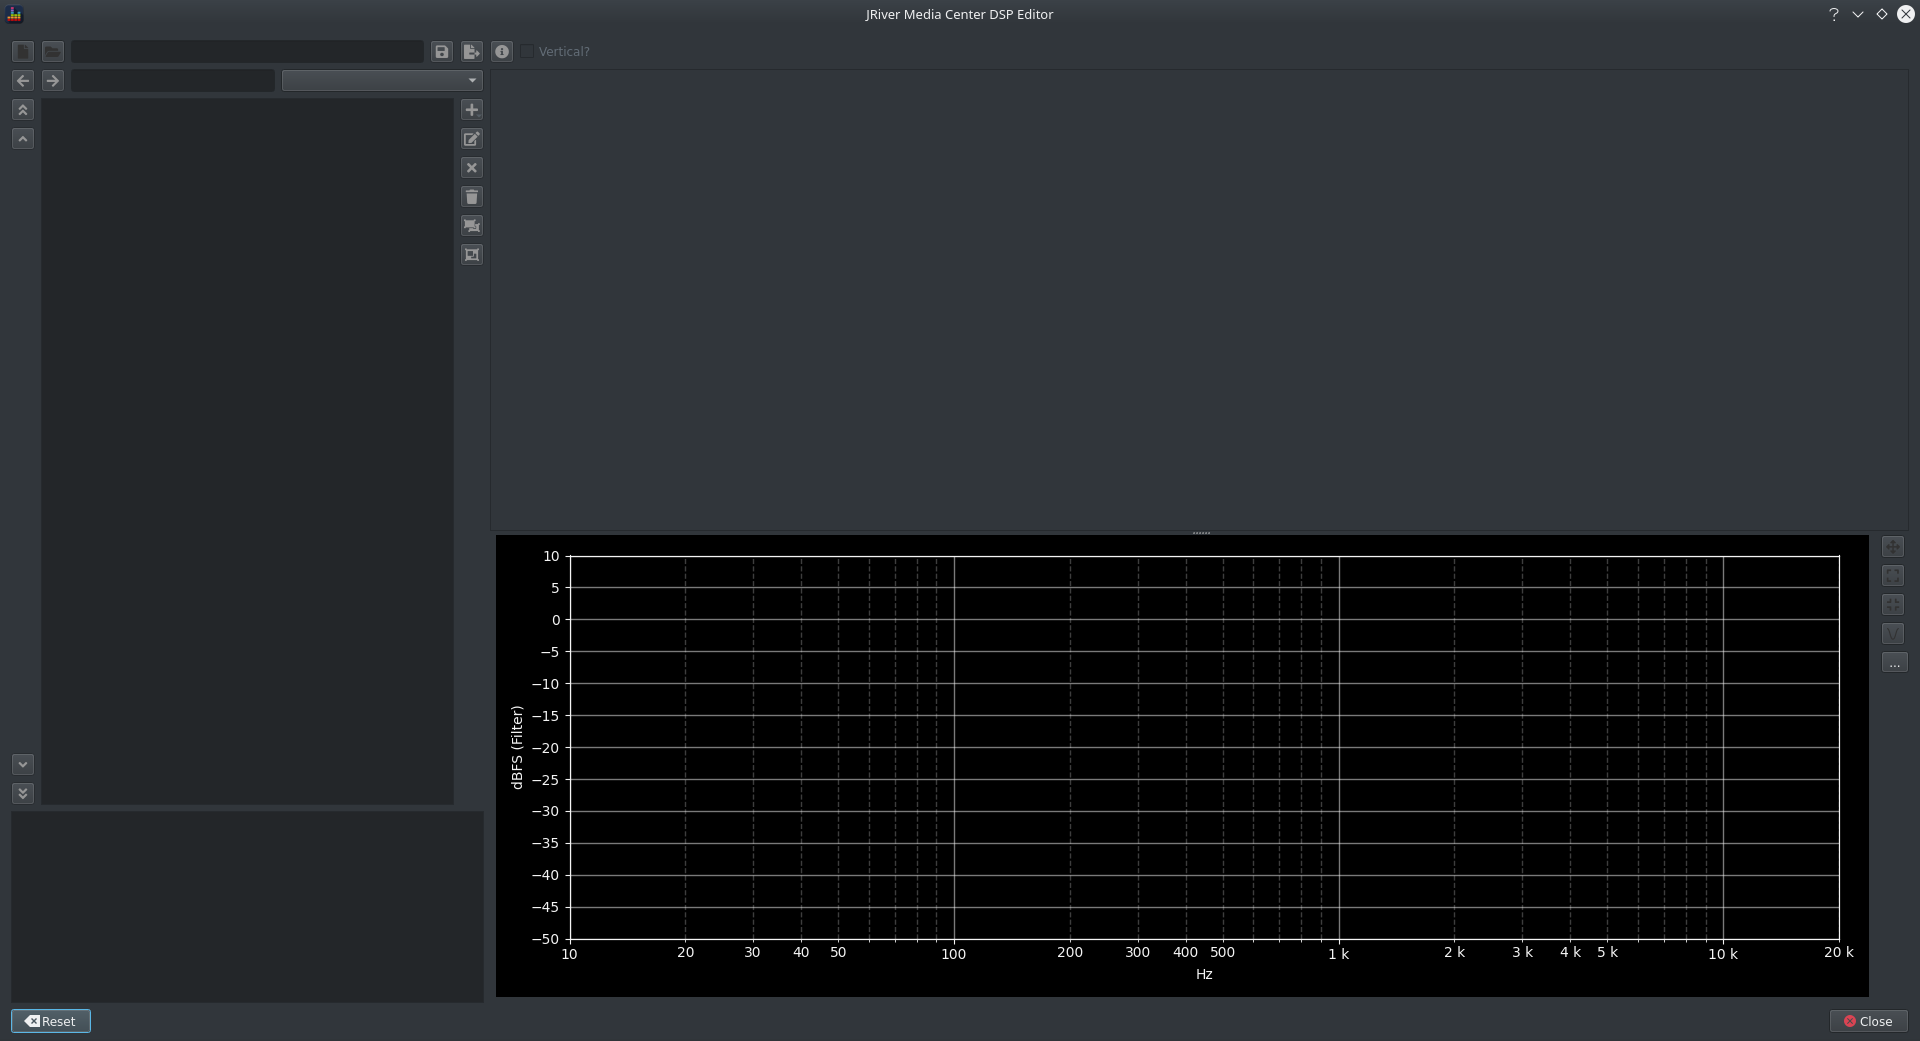
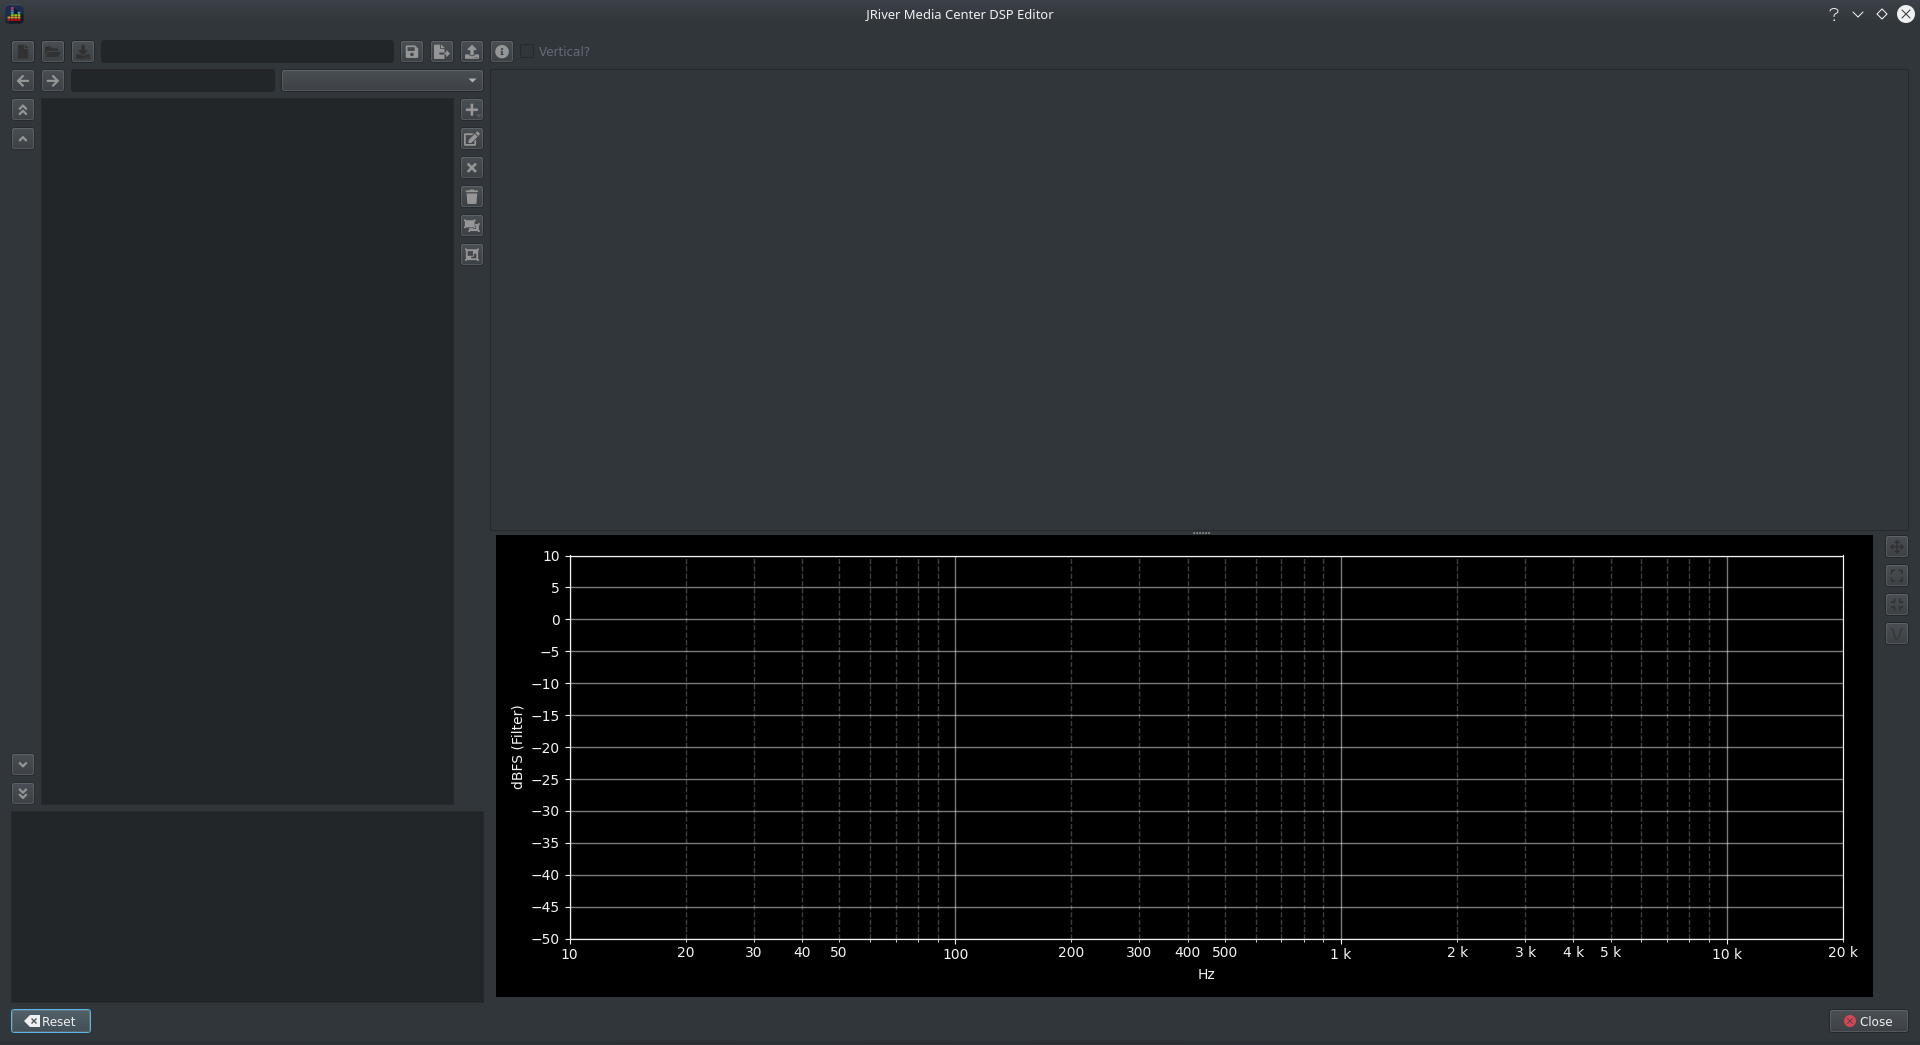
Update docs and handle mcws changes in 28.0.14

diff --git a/src/main/python/model/jriver/mcws.py b/src/main/python/model/jriver/mcws.py
@@ -26,7 +26,7 @@ class MediaServer:
     def authenticate(self) -> bool:
         self.__token = None
         url = f"{self.__base_url}/Authenticate"
-        r = requests.get(url, auth=self.__auth)
+        r = requests.get(url, auth=self.__auth, timeout=(1, 5))
         if r.status_code == 200:
             response = ET.fromstring(r.content)
             if response:
@@ -46,7 +46,7 @@ class MediaServer:
 
     def get_zones(self) -> Dict[str, str]:
         self.__auth_if_required()
-        r = requests.get(f"{self.__base_url}/Playback/Zones", params={'Token': self.__token})
+        r = requests.get(f"{self.__base_url}/Playback/Zones", params={'Token': self.__token}, timeout=(1, 5))
         if r.status_code == 200:
             response = ET.fromstring(r.content)
             if response:
@@ -77,30 +77,49 @@ class MediaServer:
 
     def get_dsp(self, zone_id: str) -> Optional[str]:
         self.__auth_if_required()
-        r = requests.get(f"{self.__base_url}/Playback/SaveDSPPreset", params={'Token': self.__token, 'Zone': zone_id, 'ZoneType': 'ID'})
+        r = requests.get(f"{self.__base_url}/Playback/SaveDSPPreset",
+                         params={'Token': self.__token, 'Zone': zone_id, 'ZoneType': 'ID'},
+                         timeout=(1, 5))
         if r.status_code == 200:
-            response = ET.fromstring(r.content)
+            response = ET.fromstring(r.text)
             if response:
-                r_status = response.attrib.get('Status', None)
-                if r_status == 'OK':
-                    for child in response:
-                        if child.tag == 'Item' and 'Name' in child.attrib and child.attrib['Name'] == 'Preset':
-                            return child.text
+                if response.tag == 'DSP':
+                    return r.text
+                elif response.tag == 'Response':
+                    r_status = response.attrib.get('Status', None)
+                    if r_status == 'OK':
+                        for child in response:
+                            if child.tag == 'Item' and 'Name' in child.attrib and child.attrib['Name'] == 'Preset':
+                                return child.text
         raise MCWSError('No DSP loaded',  r.url, r.status_code, r.text)
 
-    def set_dsp(self, zone_name: str, dsp: str) -> bool:
+    def set_dsp(self, zone_id: str, dsp: str) -> bool:
         self.__auth_if_required()
         dsp = dsp.replace('\n', '\r\n')
         if not dsp.endswith('\r\n'):
             dsp = dsp + '\r\n'
         r = requests.post(f"{self.__base_url}/Playback/LoadDSPPreset",
-                          params={'Token': self.__token, 'Zone': zone_name, 'ZoneType': 'Name'},
-                          files={'Name': (None, dsp)})
+                          params={'Token': self.__token, 'Zone': zone_id, 'ZoneType': 'ID'},
+                          files={'Name': (None, dsp)},
+                          timeout=(1, 5))
         if r.status_code == 200:
-            logger.debug(f"LoadDSPPreset/{zone_name} success")
-            return True
+            logger.debug(f"LoadDSPPreset/{zone_id} success")
+            loaded_dsp = self.get_dsp(zone_id)
+            if loaded_dsp == dsp:
+                return True
+            else:
+                raise DSPMismatchError(zone_id, dsp, loaded_dsp)
         else:
             raise MCWSError('DSP not set',  r.url, r.status_code, r.text)
+
+
+class DSPMismatchError(Exception):
+
+    def __init__(self, zone_id: str, expected: str, actual):
+        super().__init__(f"Mismatch in DSP loaded to {zone_id}")
+        self.zone_id = zone_id
+        self.expected = expected
+        self.actual = actual
 
 
 class MCWSError(Exception):

diff --git a/src/main/python/model/jriver/ui.py b/src/main/python/model/jriver/ui.py
@@ -28,7 +28,7 @@ from model.jriver.dsp import JRiverDSP
 from model.jriver.filter import Divider, GEQFilter, CompoundRoutingFilter, CustomPassFilter, GainQFilter, Gain, Pass, \
     LinkwitzTransform, Polarity, Mix, Delay, Filter, create_peq, MixType, ChannelFilter, convert_filter_to_mc_dsp, \
     SingleFilter, XOFilter, HighPass, LowPass, SimulationFailed
-from model.jriver.mcws import MediaServer, MCWSError
+from model.jriver.mcws import MediaServer, MCWSError, DSPMismatchError
 from model.jriver.render import render_dot
 from model.jriver.routing import Matrix, LFE_ADJUST_KEY, EDITORS_KEY, EDITOR_NAME_KEY, \
     UNDERLYING_KEY, WAYS_KEY, SYM_KEY, LFE_IN_KEY, ROUTING_KEY, calculate_compound_routing_filter
@@ -2330,9 +2330,9 @@ class MCWSDialog(QDialog, Ui_loadDspFromZoneDialog):
             self.__media_server = None
 
     def __add_media_server(self, ip, auth):
-        item = QListWidgetItem(f"{ip} [{auth[0]}]")
         if len(auth) == 3:
             auth = ((auth[0], auth[1]), auth[2])
+        item = QListWidgetItem(f"{ip} [{auth[0][0]}]")
         item.setData(self.MCWS_ROLE, MediaServer(ip, *auth))
         self.savedConnections.addItem(item)
 
@@ -2363,15 +2363,19 @@ class MCWSDialog(QDialog, Ui_loadDspFromZoneDialog):
                         self.resultText.setPlainText(f"{e.url} - {e.status_code}\n\n{e.msg}\n\n{e.resp}")
                         self.upload.setIcon(qta.icon('fa5s.download', color='red'))
             else:
-                zone_name = self.zones.selectedItems()[0].text()
-                try:
-                    result = self.__media_server.set_dsp(zone_name, self.__txt)
-                    if result:
-                        self.resultText.setPlainText(f"Uploaded dsp to {zone_name}")
-                        self.upload.setIcon(qta.icon('fa5s.upload', color='green'))
-                    else:
-                        self.resultText.setPlainText(f"Failed to upload dsp to {zone_name}")
+                if self.zones.selectionModel().hasSelection():
+                    zone = self.zones.selectedItems()[0]
+                    try:
+                        result = self.__media_server.set_dsp(zone.data(self.MCWS_ROLE), self.__txt)
+                        if result:
+                            self.resultText.setPlainText(f"Uploaded dsp to {zone.text()}")
+                            self.upload.setIcon(qta.icon('fa5s.upload', color='green'))
+                        else:
+                            self.resultText.setPlainText(f"Failed to upload dsp to {zone.text()}")
+                            self.upload.setIcon(qta.icon('fa5s.upload', color='red'))
+                    except DSPMismatchError as e:
+                        self.resultText.setPlainText(f"{e}\n\n{e.expected}\n\n{e.actual}")
                         self.upload.setIcon(qta.icon('fa5s.upload', color='red'))
-                except MCWSError as e:
-                    self.resultText.setPlainText(f"{e.url} - {e.status_code}\n\n{e.msg}\n\n{e.resp}")
-                    self.upload.setIcon(qta.icon('fa5s.upload', color='red'))
+                    except MCWSError as e:
+                        self.resultText.setPlainText(f"{e.url} - {e.status_code}\n\n{e.msg}\n\n{e.resp}")
+                        self.upload.setIcon(qta.icon('fa5s.upload', color='red'))

diff --git a/docs/ui/manage_mc.md b/docs/ui/manage_mc.md
@@ -18,10 +18,12 @@ This is launched via `Tools > Manage JRiver MC Filters` or the `CTRL+J` keyboard
 
 ![MCDSP](../img/jriver_dsp_editor.png)
 
+!!! info
+Use the button tooltips to understand what they do.
+
 ### Getting Started
 
-!!! info
-    Use the button tooltips to understand what they do.
+#### Creating a Empty Configuration 
 
 To create a new (empty) configuration:
 
@@ -29,12 +31,48 @@ To create a new (empty) configuration:
 * select an output format
 * enter a configuration name
 
-To load an existing configuration:
+#### Loading an Existing Configuration...
+
+!!! warning
+When loading an existing configuration, it must already have at least one active _Parametric Equalizer_ block.
+
+##### from a file
+
+To load an existing configuration exported from Media Center using the _Load/Save DSP File_ option:
 
 * click Open
 * select a dsp file
 
-The screen will update to display the contents of the _Parametric Equalizer_ configuration
+The screen will update to display the contents of the 1st listed _Parametric Equalizer_ block in DSP Studio.
+
+##### from a running Media Server
+
+DSP configuration can be loaded from a running Media Server if:
+
+* it is a v28 installation 
+* [Media Network](https://wiki.jriver.com/index.php/Media_Network) is activated
+
+To load such a config
+
+* click Download 
+* (on first use) enter the connection details for the Media Server, click test connection and then save assuming the test was successful
+
+![MCWSNew](../img/jriver_add_new_mcws.png)
+
+* select the Media server instance and the zones list should be updated
+* select a zone and click the download button
+
+The downloaded config should be now be shown in the result text field and the configuration loaded into the editor.
+
+![MCWSDownload](../img/jriver_mcws_download.png)
+
+If the selected zone has no active Parametric Equalizer sections, an error dialog will be displayed
+
+![MCWSError](../img/jriver_mcws_download_error.png)
+
+To workaround this, open Media Center on the specified host and enable the Parametric Equalizer sections in DSP Studio.
+
+#### Initial View
 
 ![OnOpen](../img/jriver_on_open.png)
 
@@ -190,6 +228,23 @@ The _Delay_ filter behaves as per the JRiver [Delay Filter](https://wiki.jriver.
 The _Polarity_ filter behaves as per the JRiver [Polarity Filter](https://wiki.jriver.com/index.php/Parametric_Equalizer#Delay) The _Delay_filter behaves as per the JRiver [Polarity Filter](https://wiki.jriver.com/index.php/Parametric_Equalizer#Reverse_Polarity)
 
 ![Polarity](../img/jriver_polarity.png)
+
+### Transferring Configuration to Media Center
+
+#### via a dsp file
+
+The configuration can be saved to a DSP file which can be loaded via the _Load/Save DSP_ option in Media Center. To export as a file, click either Save or Save As and select a file to write to.
+
+#### loading directly into Media Center
+
+The configuration can be loaded into a zone in a running Media Server if
+
+* Media Center v28 is installed
+* [Media Network](https://wiki.jriver.com/index.php/Media_Network) is activated
+
+To do so, click the upload button and select a server & zone then click the upload button. The button should turn green if the configuration is uploaded successfully.
+
+![MCWSUp](../img/jriver_mcws_upload.png)
 
 ### Interactivity
 
